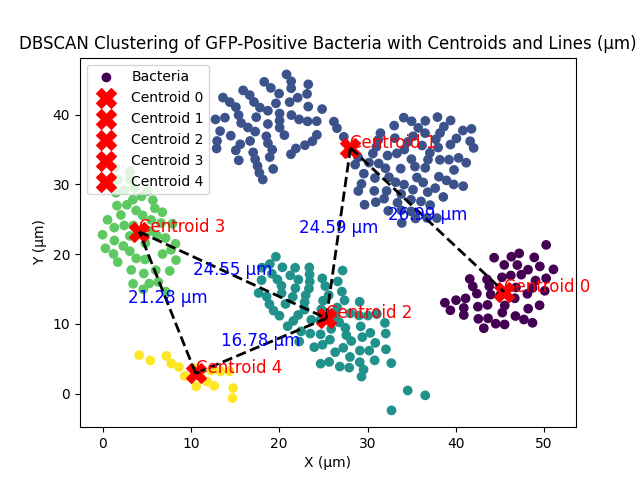
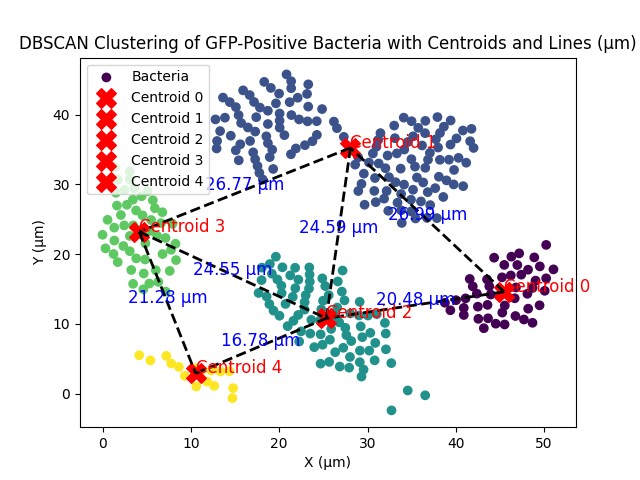
Fix pairs definition

diff --git a/data_analysis.py b/data_analysis.py
@@ -193,21 +193,31 @@ def obtain_score(centroids, bacteria_positions):
 # Global variables
 # Arrays that represent relations between centroids; used to calculate distances between centroids
 pairs_g = [
-    (4, 2), (4, 3), (3, 2), (3, 6), (3, 5), (2, 1),
-    (2, 5), (5, 6), (1, 5), (5, 0), (5, 1), (1, 0)  
+    (0,1), (0,2),
+    (1,2), (1,3),
+    (3,2), (3,4),
+    (4,2)
 ]
 
 pairs_r = [
-    (3, 2), (3, 4), (3, 0), 
-    (2, 0), 
-    (0, 4), (0, 1),
-    (1, 4)
+    (0, 1), (0, 2), (0, 4),
+    (1, 2), (1, 3),
+    (2, 3), (2, 4), (2, 5), (2, 6),
+    (3, 6),
+    (4, 5),
+    (5, 6)
 ]
 
+
 pairs_y = [
-    (4, 3), (4, 5), (4, 0), (3, 5), (3, 2), (5, 0),
-    (5, 2), (2, 0), (0, 1)  
+    (0, 1), (0, 2), (0, 3), (0, 4), (0, 5), (0, 6), (0, 9),
+    (1, 2), (1, 9),
+    (2, 8), (2, 3),
+    (3, 8), (3, 4), (3, 7),
+    (4, 6), (4, 7),
+    (5, 6), (5, 9)
 ]
+
 
 
 def main():
